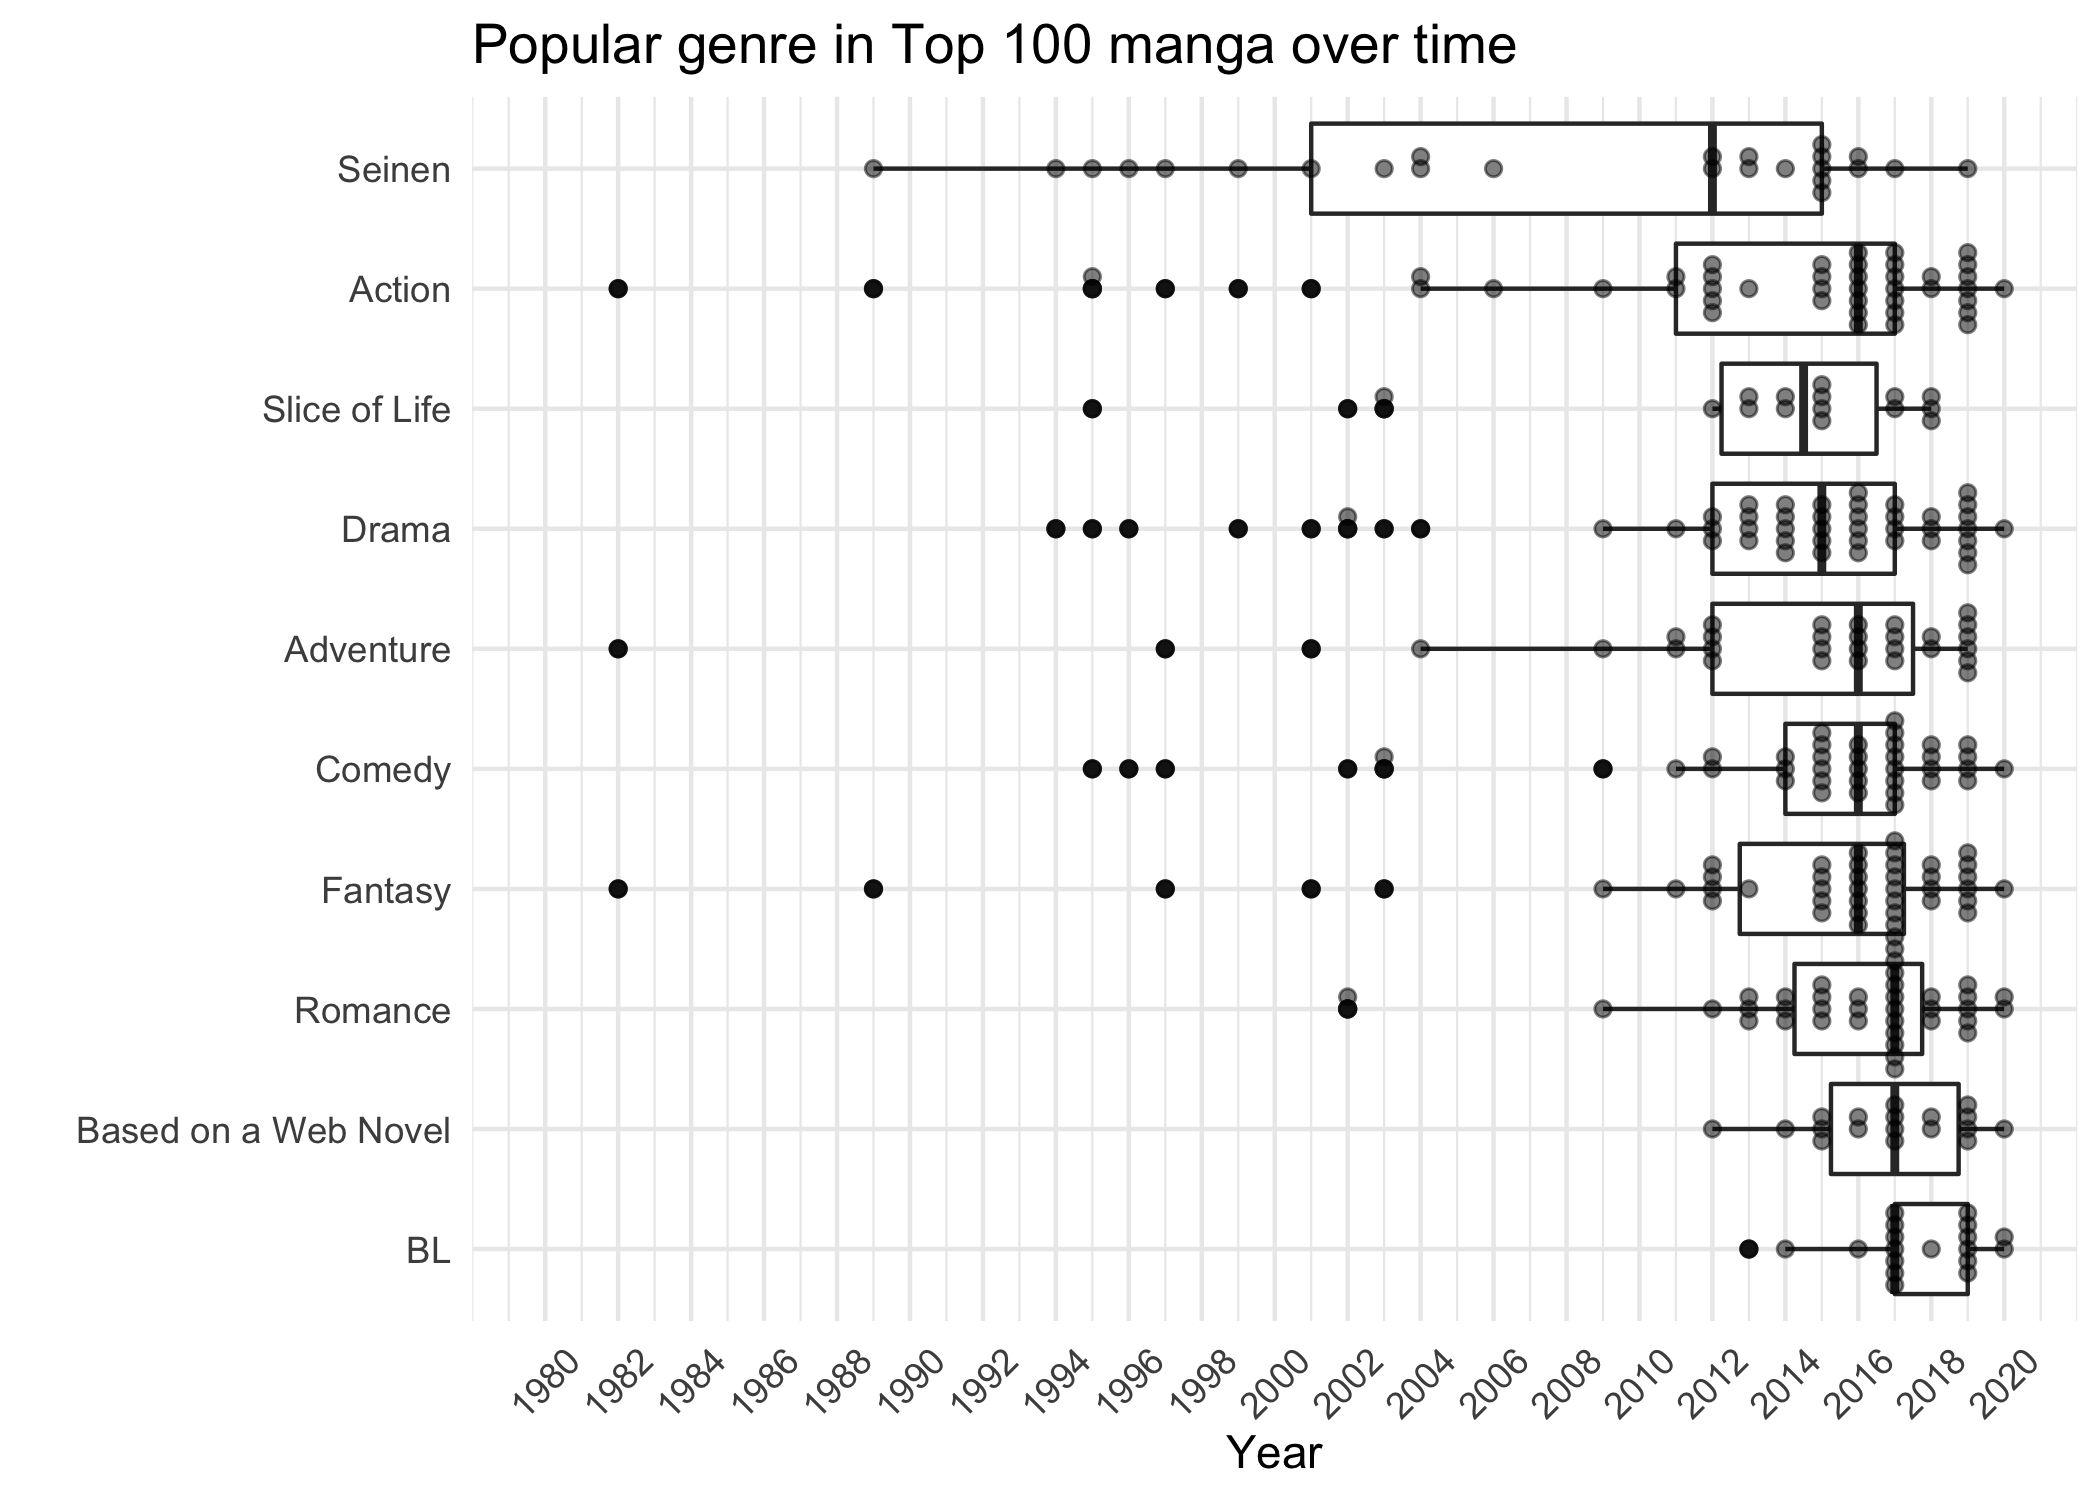
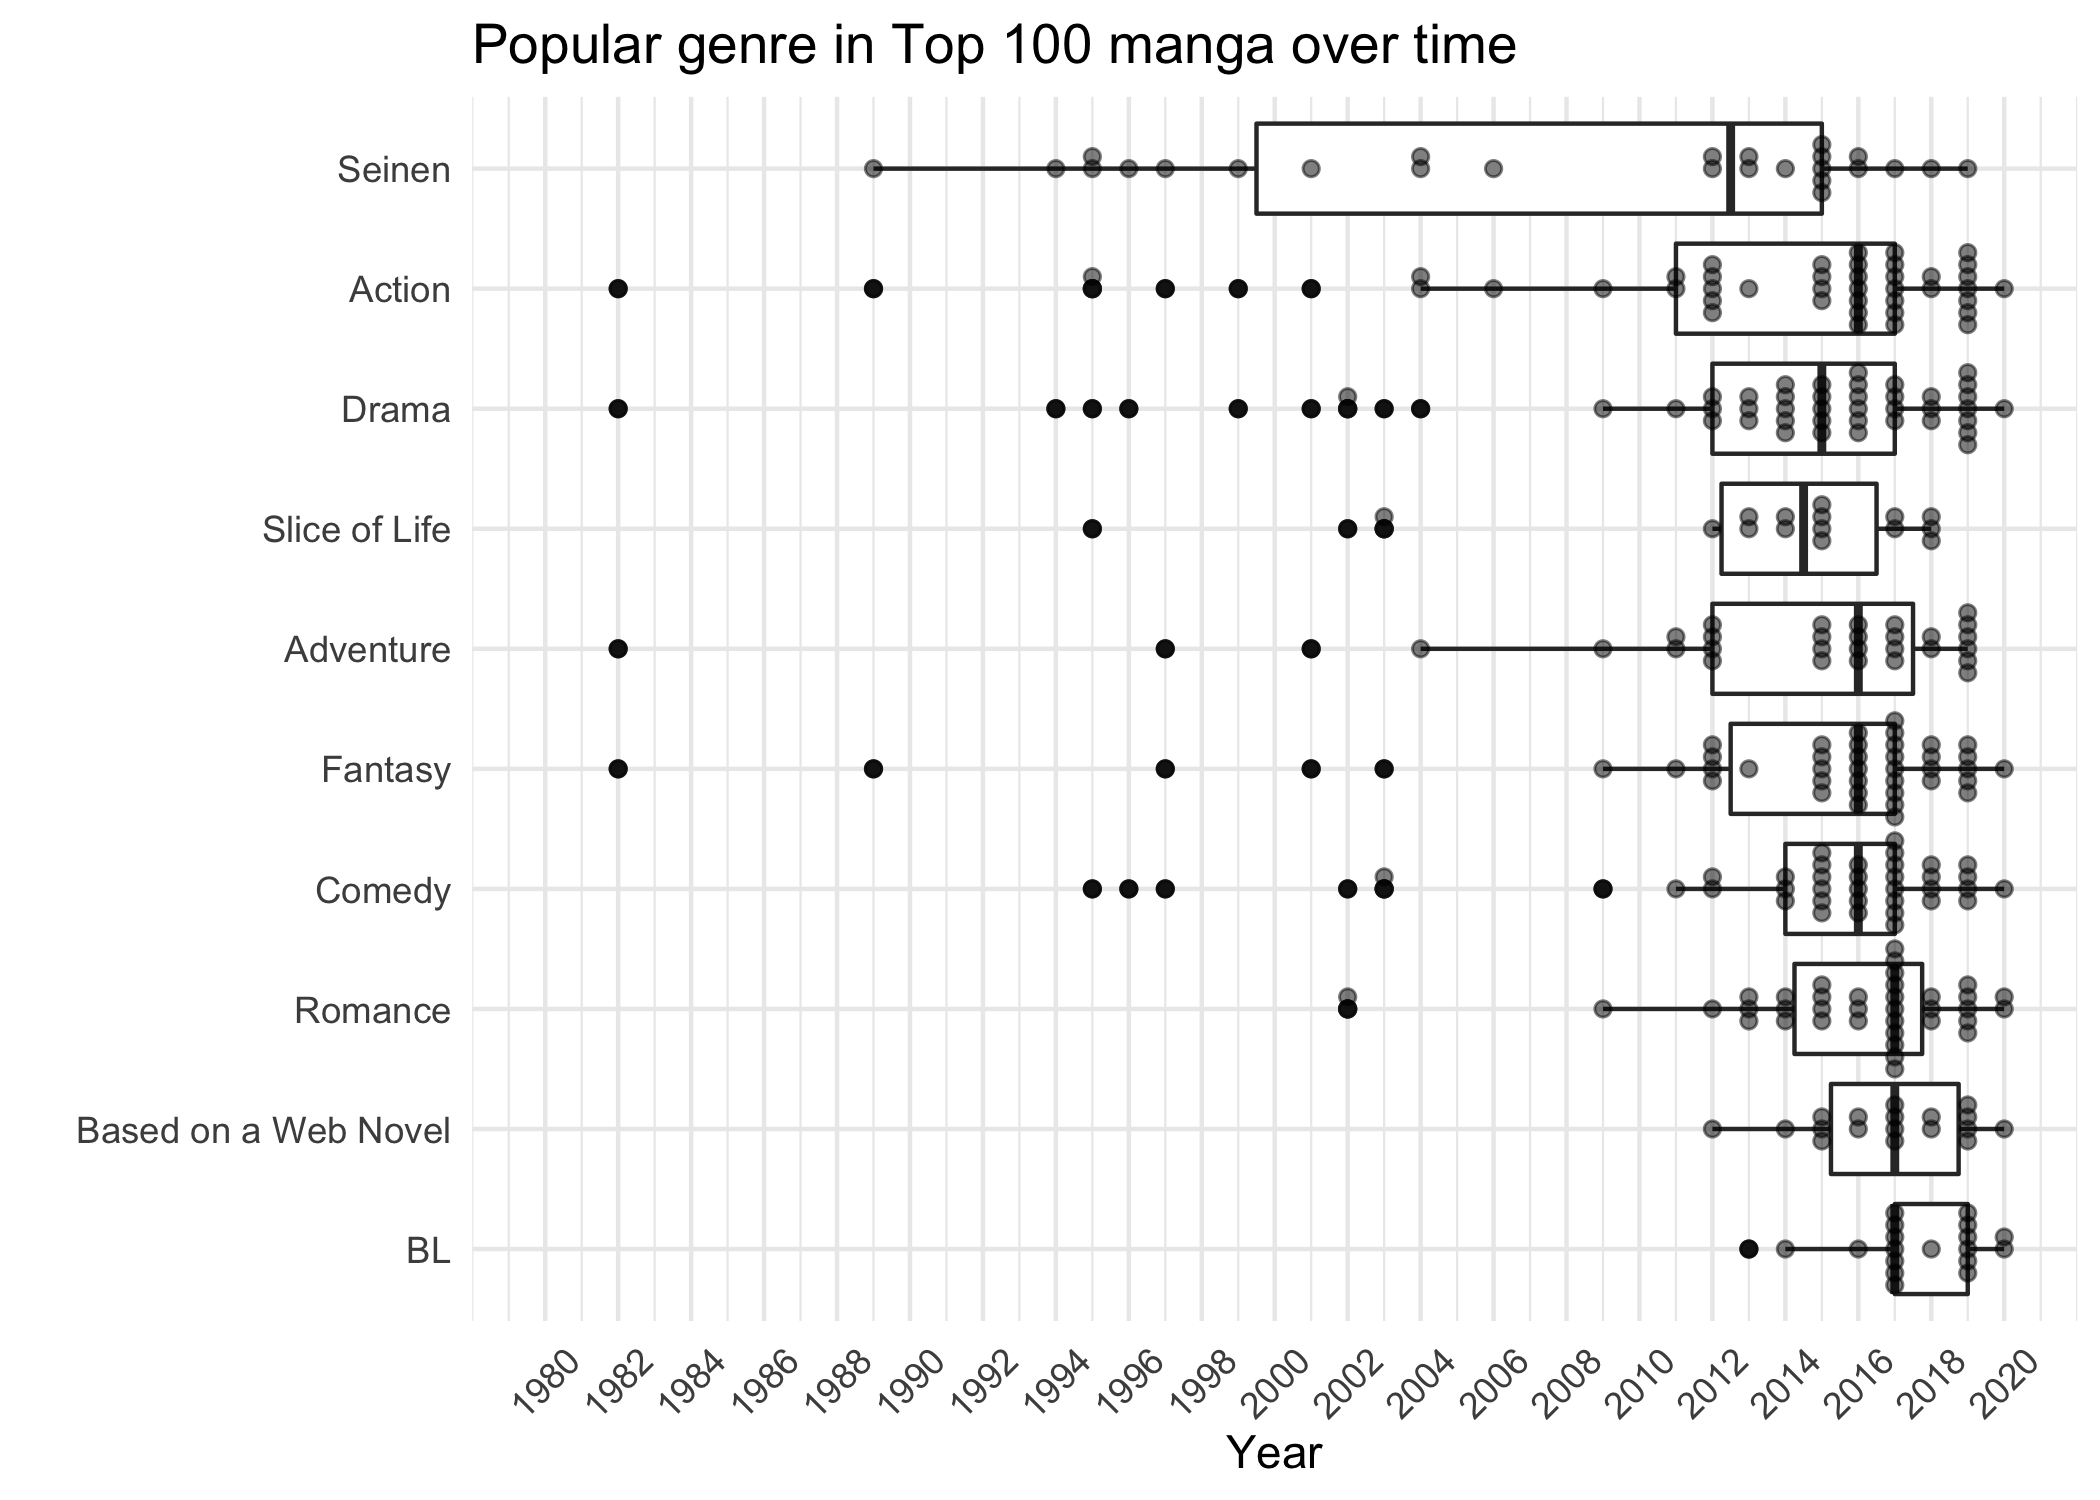
added some description

diff --git a/Manga-data-explore.md b/Manga-data-explore.md
@@ -14,6 +14,8 @@ library(viridis)
 library(purrr)
 ```
 
+# Introduction
+
 Manga are Japanese comics or graphic novels that are very popular in the
 present day, especially in Asia. This is my exploration of top 100 Manga
 in recent years. The data is collected from
@@ -71,7 +73,13 @@ df_manga_top_100 <-
   slice(1:100)
 ```
 
-What are those top 100 Manga?
+## What are those top 100 Manga?
+
+We can see that there are many popular Manga in recent years after 2010
+that shows the more recent Manga, the more popular. However, there are
+some Manga in top 5 in the earlier time, such as Fullmetal Alchemist,
+Berserk, and One piece, representing the classic ones, especially
+Fullmetal Alchemist, also one of my favorites.
 
 ``` r
 # plot the top 50 Manga by year
@@ -95,8 +103,13 @@ df_manga_top_100 %>%
 
 ![](Manga-data-explore_files/figure-gfm/plot-top-50-1.png)<!-- -->
 
-Take a look at the number and proportion of top 100 Manga across
-different years
+## What are the ranking of Manga per year?
+
+The bar plot shows that high rank Manga (top 1-25) seem distribute
+evenly across years, but some more in 2016-2018. Despite the total
+number of Manga per year increasing after 2012, the proportion of low
+rank ones (top 76-100) are also higher. We can see that Manga in 2015
+and 2020 seem have lower rank in general in the box plot.
 
 ``` r
 # bar plot by count over time 
@@ -174,7 +187,12 @@ df <-
   mutate(text = str_remove_all(text, "\\n"))
 ```
 
-What are the popular genre based on the top 100 Manga?
+## What are popular genre based on the top 100 Manga?
+
+Drama is the most popular one, followed by action, fantasy, comedy, and
+romance. Among those genre, “Seinen” is a type of Manga targeting
+audience of young generation that could cover a wide range of topics.
+“BL” is also a special genre that means Boys Love.
 
 ``` r
 # combine manga top 100 info and tags   
@@ -219,7 +237,11 @@ ggplot(tags_com,
 
 ![](Manga-data-explore_files/figure-gfm/genre-top-manga-1.png)<!-- -->
 
-How those different popular genre relate to years?
+## What is the relationship between popular genre and years?
+
+The box plot shows that Seinen is a common popular genre across years,
+followed by action. It also shows that BL and Manga based on a web novel
+appear and become popular appear after 2012.
 
 ``` r
 # extract common tags to a list
@@ -252,7 +274,10 @@ ggplot(rate_tags,
 
 ![](Manga-data-explore_files/figure-gfm/genre-years-relation-1.png)<!-- -->
 
-How those genre become popular over time?
+## How those genre become popular over time?
+
+The histogram plots show that most topics become popular after 2012,
+especially drama, comedy, and action.
 
 ``` r
 # plot barplot for years by common tags
@@ -281,12 +306,17 @@ manga_t100_tags_groups <-
 df_manga_t100_tags %>% 
   mutate(rank = as.numeric(rank), year = as.numeric(year)) %>% 
   mutate(rank_2groups = ifelse(rank < 51, "1-50", "51-100"),
-         year_2groups = ifelse(year < 2010, "before 2010", "after 2010"))
+         year_2groups = ifelse(year < 2013, "before 2012", "after 2012"))
 ```
 
-Does the common genre of Manga change over time? Words on the right of
-the line are the genre that are found more after 2010. Red color refers
-to a higher proportion.
+## What is the difference in genre between the early and later time?
+
+In the plot, words on the right of the line are the genre that are found
+more after 2012, and words in red refer to a higher proportion in
+general. The words near the line are the genre found both in the early
+and later time with similar proportion. The result shows that the topic
+becomes more and diverse after 2012, such as school life, historical,
+and cultivation.
 
 ``` r
 # plot the comparison of genre frequency of Manga for different time periods
@@ -299,9 +329,9 @@ fre_year_groups <-
               values_from = proportion)
 
 ggplot(fre_year_groups, 
-       aes(x = `after 2010`, 
-           y = `before 2010`, 
-           color = abs(`before 2010` - `after 2010`))) +
+       aes(x = `after 2012`, 
+           y = `before 2012`, 
+           color = abs(`before 2012` - `after 2012`))) +
   geom_abline(color = "gray40", lty = 2) +
   geom_jitter(alpha = 0.5, size = 0.5, width = 0.1, height = 0.1) +
   geom_text(aes(label = text), check_overlap = TRUE, vjust = 0.2) +
@@ -311,8 +341,8 @@ ggplot(fre_year_groups,
                        low = "lavenderblush4", 
                        high = "red3") +
   theme(legend.position = "none") +
-  labs(y = "before 2010", 
-       x = "after 2010")
+  labs(y = "before 2012", 
+       x = "after 2012")
 ```
 
 ![](Manga-data-explore_files/figure-gfm/proportion-two-periods-1.png)<!-- -->
